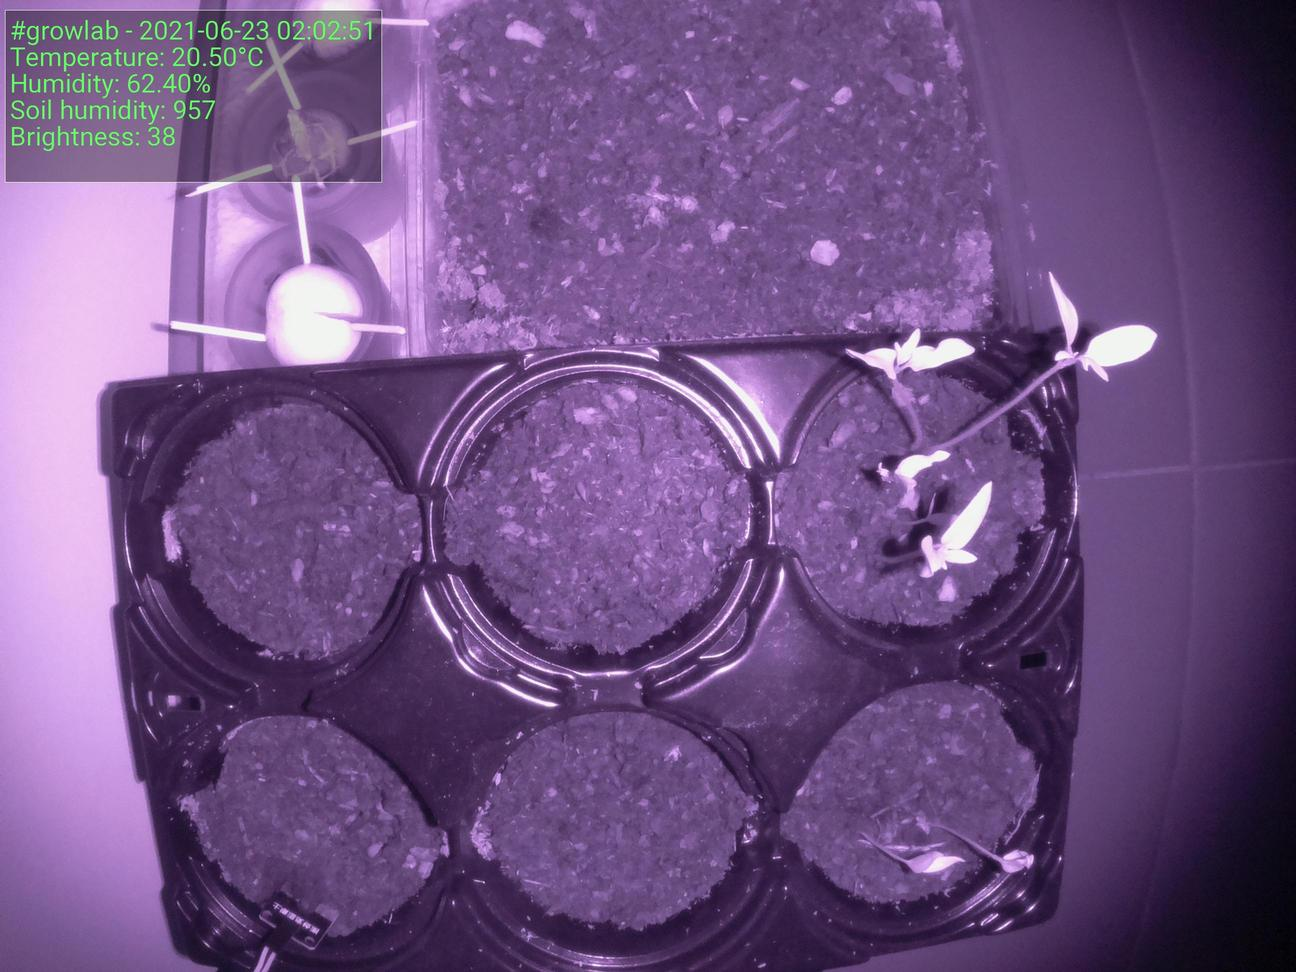
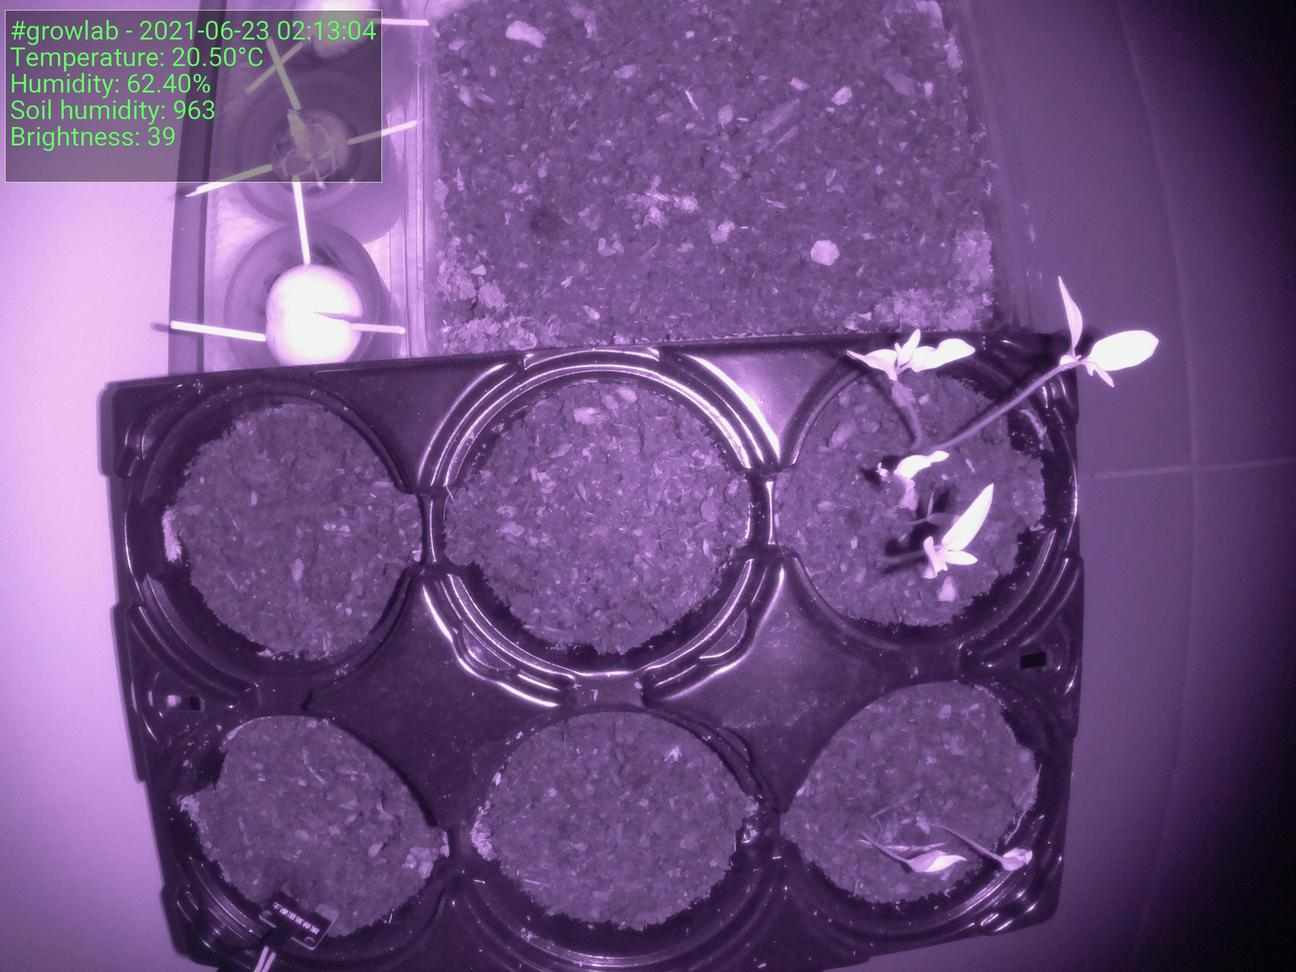
:bento: Update preview

diff --git a/index.html b/index.html
@@ -39,7 +39,7 @@
                     <tbody>
                         <tr>
                             <td>Time</td>
-                            <td>2021-06-23 02:02:51</td>
+                            <td>2021-06-23 02:13:04</td>
                         </tr>
                         <tr>
                             <td>Temperature</td>
@@ -55,7 +55,7 @@
 
                 <h5>Latest image</h5>
 		<div style="width: 85%;">
-	                <img class="figure-img img-fluid rounded" src="./preview.jpg?uid=1624406578.6353128">
+	                <img class="figure-img img-fluid rounded" src="./preview.jpg?uid=1624407192.9688761">
 		</div>
             </div>
         </div>
